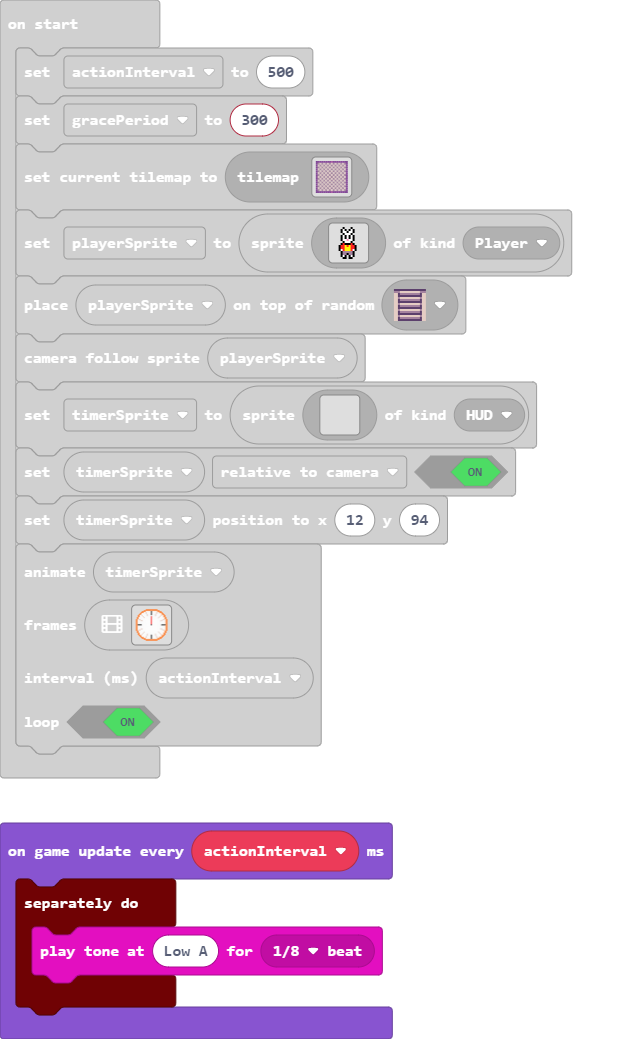
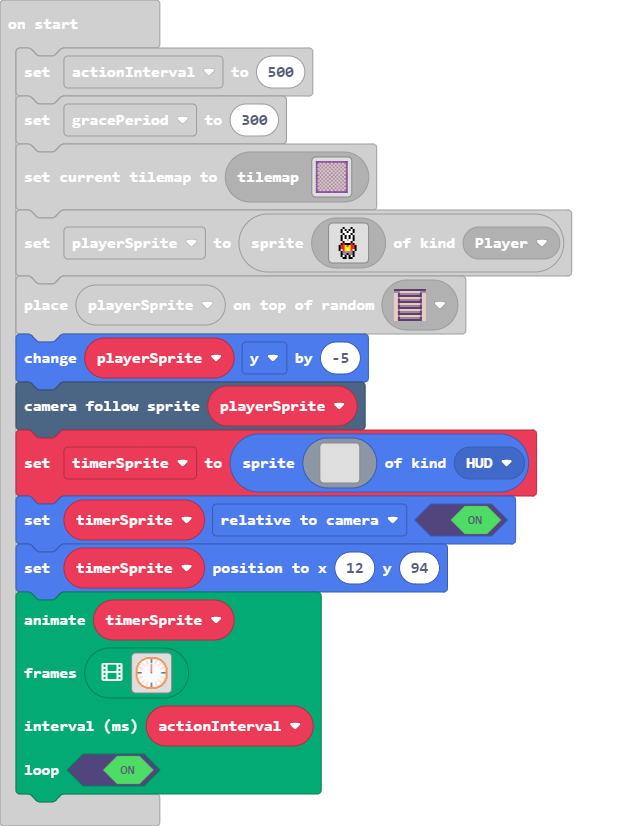
Put player in the middle of the tile.

diff --git a/main.ts b/main.ts
@@ -42,6 +42,7 @@ gracePeriod = 300
 tiles.loadMap(tiles.createMap(tilemap`level0`))
 playerSprite = sprites.create(assets.image`Player`, SpriteKind.Player)
 tiles.placeOnRandomTile(playerSprite, sprites.dungeon.stairSouth)
+playerSprite.y += -5
 scene.cameraFollowSprite(playerSprite)
 let timerSprite = sprites.create(img`
     . . . . . . . . . . . . . . . . 
